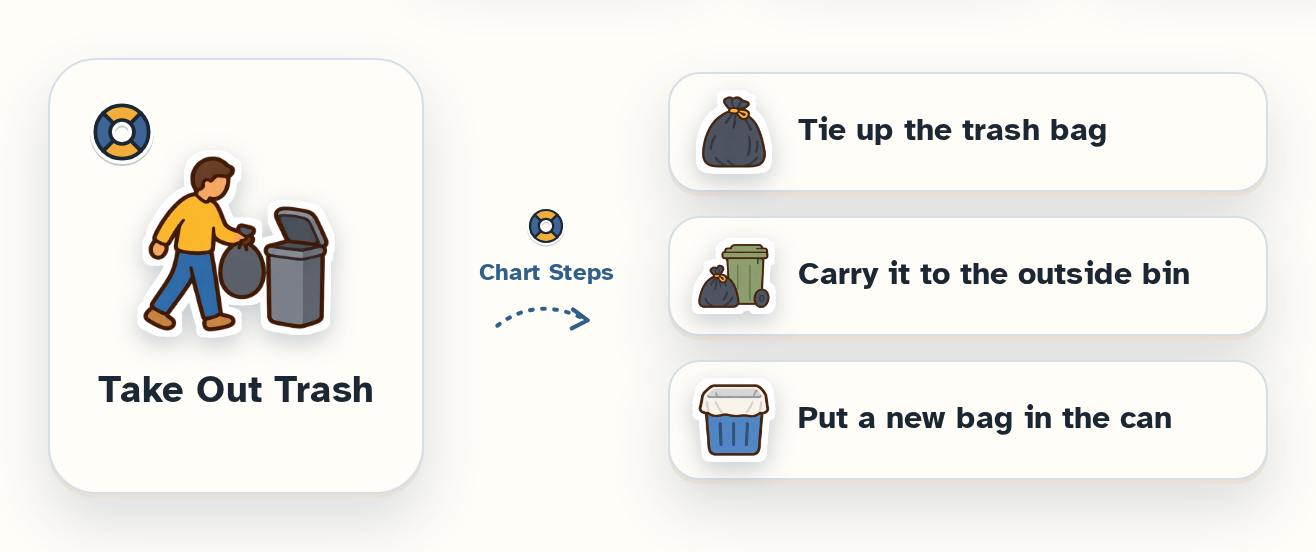
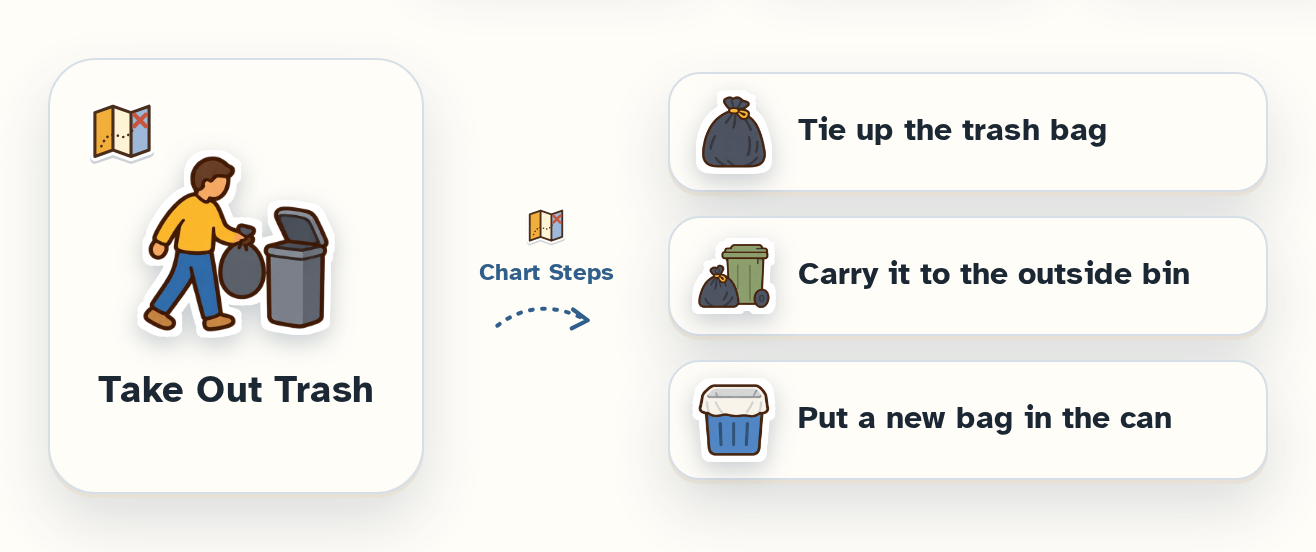
Fanned ready-made cards and the treasure map for Chart Steps (#60)
* Fan out the ready-made cards and use the app's treasure map for Chart Steps

The map sits in the card's top left corner like the app; Tap me now sits
above the card so it never covers the picture.

Claude-Session: https://claude.ai/code/session_01DcAsRdVhoUAcaA1hRJqdpX

* Show the treasure map in the link preview and email pictures

Claude-Session: https://claude.ai/code/session_01DcAsRdVhoUAcaA1hRJqdpX

---------

Changed region(s): [[0.0623, 0.1848, 0.1246, 0.308], [0.3739, 0.3696, 0.4362, 0.462]]

diff --git a/index.html b/index.html
@@ -19,7 +19,7 @@
 <link rel="icon" href="favicon.png">
 <link rel="preload" href="fonts/7b114e24f7.woff2" as="font" type="font/woff2" crossorigin>
 <link rel="stylesheet" href="fonts.css?v=1791385613">
-<link rel="stylesheet" href="site.css?v=1791412023">
+<link rel="stylesheet" href="site.css?v=1791423143">
 <script type="application/ld+json">
 [
  {
@@ -102,7 +102,7 @@
   <div data-e="e27" class="split" id="split">
     <div class="card big">
       <span class="callout" id="buoy-callout" aria-hidden="true">Tap me</span>
-      <button class="buoy-btn" id="buoy" type="button" aria-label="Chart Steps" aria-expanded="true" aria-controls="steps"><svg class="buoy" aria-hidden="true" viewBox="-3 -3 30 30" xmlns="http://www.w3.org/2000/svg"><g opacity=".25" transform="translate(0 .8)"><path d="M4.929 4.929A10 10 0 0 1 19.071 4.929L15.182 8.818A4.5 4.5 0 0 0 8.818 8.818Z" fill="#24405C" stroke="#24405C" stroke-width="4" stroke-linejoin="round"/><path d="M19.071 4.929A10 10 0 0 1 19.071 19.071L15.182 15.182A4.5 4.5 0 0 0 15.182 8.818Z" fill="#24405C" stroke="#24405C" stroke-width="4" stroke-linejoin="round"/><path d="M19.071 19.071A10 10 0 0 1 4.929 19.071L8.818 15.182A4.5 4.5 0 0 0 15.182 15.182Z" fill="#24405C" stroke="#24405C" stroke-width="4" stroke-linejoin="round"/><path d="M4.929 19.071A10 10 0 0 1 4.929 4.929L8.818 8.818A4.5 4.5 0 0 0 8.818 15.182Z" fill="#24405C" stroke="#24405C" stroke-width="4" stroke-linejoin="round"/></g><path d="M4.929 4.929A10 10 0 0 1 19.071 4.929L15.182 8.818A4.5 4.5 0 0 0 8.818 8.818Z" fill="#fff" stroke="#fff" stroke-width="4" stroke-linejoin="round"/><path d="M19.071 4.929A10 10 0 0 1 19.071 19.071L15.182 15.182A4.5 4.5 0 0 0 15.182 8.818Z" fill="#fff" stroke="#fff" stroke-width="4" stroke-linejoin="round"/><path d="M19.071 19.071A10 10 0 0 1 4.929 19.071L8.818 15.182A4.5 4.5 0 0 0 15.182 15.182Z" fill="#fff" stroke="#fff" stroke-width="4" stroke-linejoin="round"/><path d="M4.929 19.071A10 10 0 0 1 4.929 4.929L8.818 8.818A4.5 4.5 0 0 0 8.818 15.182Z" fill="#fff" stroke="#fff" stroke-width="4" stroke-linejoin="round"/><path d="M4.929 4.929A10 10 0 0 1 19.071 4.929L15.182 8.818A4.5 4.5 0 0 0 8.818 8.818Z" fill="#F2AE3A" stroke="#1B2733" stroke-width="1.4" stroke-linejoin="round"/><path d="M19.071 4.929A10 10 0 0 1 19.071 19.071L15.182 15.182A4.5 4.5 0 0 0 15.182 8.818Z" fill="#3F6496" stroke="#1B2733" stroke-width="1.4" stroke-linejoin="round"/><path d="M19.071 19.071A10 10 0 0 1 4.929 19.071L8.818 15.182A4.5 4.5 0 0 0 15.182 15.182Z" fill="#F2AE3A" stroke="#1B2733" stroke-width="1.4" stroke-linejoin="round"/><path d="M4.929 19.071A10 10 0 0 1 4.929 4.929L8.818 8.818A4.5 4.5 0 0 0 8.818 15.182Z" fill="#3F6496" stroke="#1B2733" stroke-width="1.4" stroke-linejoin="round"/></svg></button>
+      <button class="buoy-btn" id="buoy" type="button" aria-label="Chart Steps" aria-expanded="true" aria-controls="steps"><svg class="buoy map" aria-hidden="true" viewBox="-4 -4 62 62" xmlns="http://www.w3.org/2000/svg"><path d="M6 12 L20 7 L34 12 L48 7 V41 L34 46 L20 41 L6 46Z" transform="translate(0 2)" fill="#24405C" opacity=".22" stroke="#24405C" stroke-width="7.4" stroke-linejoin="round"/><path d="M6 12 L20 7 L34 12 L48 7 V41 L34 46 L20 41 L6 46Z" fill="#fff" stroke="#fff" stroke-width="7.4" stroke-linejoin="round"/><path d="M6 12 L20 7 L34 12 L48 7 V41 L34 46 L20 41 L6 46Z" fill="#FFF3D6"/><path d="M20 7 V41 L6 46 V12Z" fill="#F2AE3A"/><path d="M34 12 V46 L48 41 V7Z" fill="#9DB8D9"/><path d="M6 12 L20 7 L34 12 L48 7 V41 L34 46 L20 41 L6 46Z M20 7V41 M34 12V46" fill="none" stroke="#4A2E1C" stroke-width="2.4" stroke-linejoin="round" stroke-linecap="round"/><path d="M11 38 Q16 26 24 30 T38 20" fill="none" stroke="#4A2E1C" stroke-width="2" stroke-dasharray="0.1 4.2" stroke-linecap="round"/><path d="M36.5 13.5L45.5 22.5M45.5 13.5L36.5 22.5" stroke="#C8553D" stroke-width="3.2" stroke-linecap="round"/></svg></button>
       <img src="img/own/take-out-trash.webp" alt="" width="576" height="576" loading="lazy"><span>Take Out Trash</span>
     </div>
     <svg class="arrow" viewBox="0 0 80 40" aria-hidden="true"><path d="M4 22 C 24 6, 48 6, 70 18" fill="none" stroke="currentColor" stroke-width="3" stroke-linecap="round" stroke-dasharray="2 7"/><path d="M60 10 L71 18 L59 24" fill="none" stroke="currentColor" stroke-width="3" stroke-linecap="round" stroke-linejoin="round"/></svg>
@@ -113,7 +113,7 @@
     </div>
   </div>
   <div data-e="e28" data-c="e28" class="bd-more">
-    <p data-e="e29">That little buoy sits in the corner of every card. It's called <b>Chart Steps</b>. Each step becomes its own card with its own picture, so you only ever look at the next small thing.</p>
+    <p data-e="e29">That little map sits in the corner of every card. It's called <b>Chart Steps</b>. Each step becomes its own card with its own picture, so you only ever look at the next small thing.</p>
     <p data-e="e30">Still too big? Tap <b>Tiny steps</b>. Too many? Tap <b>Bigger steps</b>. Change or remove any step you like. When the last one is done, the whole card counts.</p>
     <p data-e="e31" class="fine-print">Everyday cards have steps ready, even offline. For anything else, an AI helper writes the steps (it asks you first), and you get a few free every day.</p>
   </div>
@@ -215,7 +215,7 @@
   <p data-e="e86" class="fine marks">iPhone is a trademark of Apple Inc. Android is a trademark of Google LLC. The Android robot is reproduced or modified from work created and shared by Google and used according to terms described in the Creative Commons 3.0 Attribution License.</p>
 </footer>
 
-<script data-e="e80" src="site.js?v=1791412023"></script>
+<script data-e="e80" src="site.js?v=1791423143"></script>
 <script data-goatcounter="https://boone.goatcounter.com/count" async src="//gc.zgo.at/count.js"></script>
 </body>
 </html>

diff --git a/site.css b/site.css
@@ -322,3 +322,22 @@ footer .marks { max-width: 640px; margin: 10px auto 0; font-size: 12px; line-hei
 .split .card.big img { width: 150px; height: auto; }
 .stack .card.big img { width: 176px; height: 176px; }
 .ready-pics img { padding: 4px; }
+/* The ready-made cards fan out like a hand of cards (Colleen, 2026-10-08). */
+.ready-pics { gap: 0; padding-top: 10px; }
+.ready-pics img { position: relative; margin: 0 -5px; transform-origin: 50% 160%; }
+.ready-pics img:nth-child(1) { transform: rotate(-16deg); }
+.ready-pics img:nth-child(2) { transform: rotate(-8deg); }
+.ready-pics img:nth-child(4) { transform: rotate(8deg); }
+.ready-pics img:nth-child(5) { transform: rotate(16deg); }
+/* "Tap me" sits above the card pointing down at the buoy, so it never covers the picture; the ring stays inside the card. */
+.split .callout { top: -46px; right: 14px; }
+.split .callout::after { right: 50%; top: auto; bottom: -7px; margin: 0 -7px 0 0; border: 7px solid transparent; border-bottom: 0; border-top-color: var(--navy); }
+.split .callout { animation-name: bob-down; }
+@keyframes bob-down { 50% { transform: translateY(-4px); } }
+.buoy-btn::after { animation-name: ripple-small; }
+@keyframes ripple-small { 0% { transform: scale(.9); opacity: .9; } 100% { transform: scale(1.12); opacity: 0; } }
+/* Chart Steps is a folded treasure map in the card's top left corner, like the app (Colleen, 2026-10-08). */
+.buoy-btn { right: auto; left: 8px; }
+.buoy-btn:hover .buoy { transform: rotate(-8deg); }
+.split .callout { right: auto; left: 10px; }
+.split .callout::after { right: auto; left: 30px; margin: 0; }

diff --git a/site.js b/site.js
@@ -100,7 +100,7 @@ signup.addEventListener('submit', async (event) => {
   button.disabled = false;
 });
 
-// Chart Steps starts folded; the buoy opens the steps and folds them back.
+// Chart Steps starts folded; the map opens the steps and folds them back.
 document.documentElement.classList.add('js');
 const split = document.getElementById('split');
 const buoy = document.getElementById('buoy');
@@ -118,7 +118,7 @@ buoy.addEventListener('click', () => {
   buoy.classList.remove('nudge');
 });
 
-// The buoy and the present give a little wiggle once they are on screen, so they get noticed.
+// The map and the present give a little wiggle once they are on screen, so they get noticed.
 const parcel = document.querySelector('.parcel');
 const seen = new IntersectionObserver((entries) => {
   entries.forEach((entry) => {
